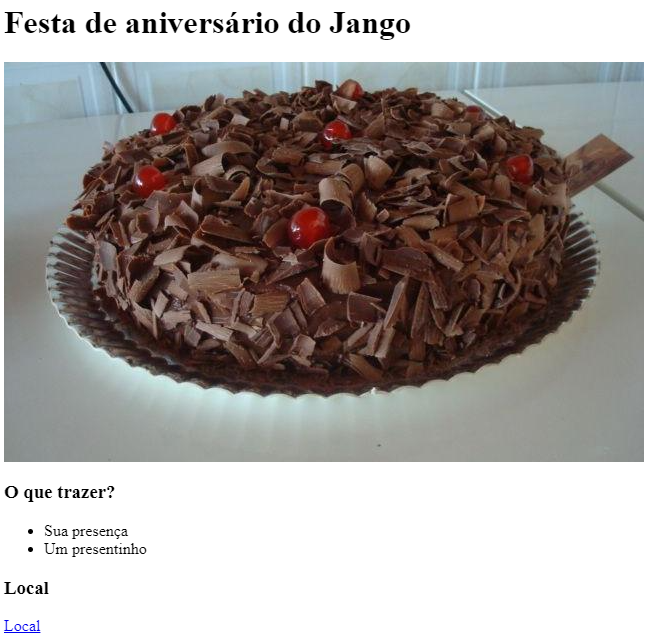
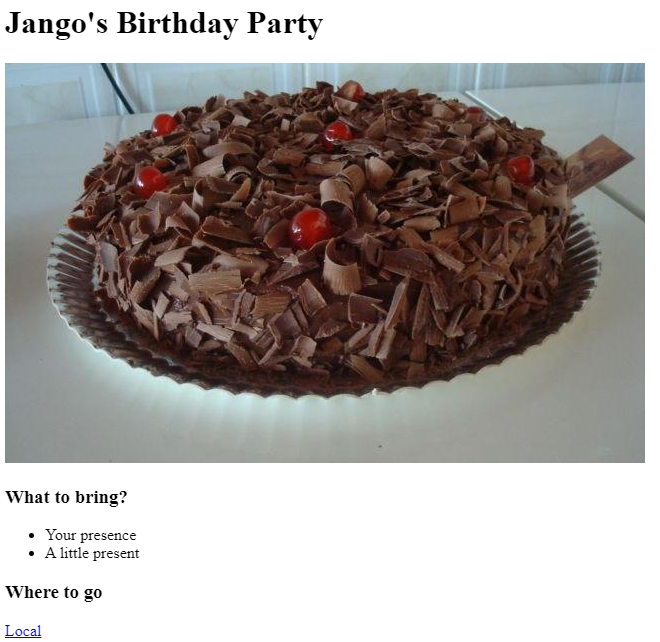
Add files via upload

diff --git a/public/resume.html b/public/resume.html
@@ -1,0 +1,51 @@
+<!DOCTYPE html>
+<html lang="en">
+<head>
+    <meta charset="UTF-8">
+    <meta name="viewport" content="width=device-width, initial-scale=1.0">
+    <title>My Resume</title>
+</head>
+<body>
+    <h1>Summary</h1> <img src="../assets/images/profile.jpg" height="200" />
+
+    <h2>Objective</h2>
+    Detail-oriented professional with a background in hospitality and gastronomy, seeking a remote data entry position. Possesses strong organizational skills, attention to detail, and proficiency in data management.
+    <hr>
+    <h2>Education</h2>
+    <h3>Federal Institute of Santa Catarina</h3>
+    <p>March 2019 - July 2023</p>
+    <p>Complete superior course in gastronomy containing practical disciplines such as Kitchen Skills I, II, and III, Bar and Cocktail Making, Enogastronomy, Bakery and Confectionery I and II, in addition to theoretical disciplines such as Cost Management, Marketing Management, Entrepreneurship and Financial Management.</p>
+    <h3>The Complete 2024 Web Development Bootcamp</h3>
+    <p>June 2024 - Present</p>
+    <p>Currently learning web development through The Complete 2024 Web Development Bootcamp on Udemy, which covers HTML, CSS, and JavaScript for front-end development, as well as Bootstrap for responsive design. The curriculum includes Node.js for server-side development, MongoDB for database management, and EJS for templating. It also covers version control with Git and GitHub, API creation and consumption, and React.js for single-page applications. Deployment skills using platforms like Heroku, Netlify, or Vercel, along with best practices for debugging, performance optimization, and security, are also taught. The course features hands-on projects and a capstone project to demonstrate acquired skills.</p>
+    <hr>
+    <h2>Work Experience</h2>
+    <h3>Ateliê 93 - Souschef</h3>
+    <p>August 2016 - Present</p>
+    <ul>
+        <li>Developed and maintained detailed recipe datasheets, ensuring accuracy and consistency.</li>
+        <li>Applied strong organizational skills to ensure efficient event coordination and food preparation.</li>
+    </ul>
+    <h3>LK Design Hotel - Bartender</h3>
+    <ul>
+        <li>Handled stock receiving and performed inventory requisitions, maintaining accurate records.</li>
+        <li>Utilized organizational skills to manage multiple tasks efficiently under pressure.</li>
+    </ul>
+    <hr>
+    <h2>Skills</h2>
+    <ul>
+        <li>Proficient in Microsoft Office Suite (Word, Excel, Outlook)</li>
+        <li>Typing speed of 80 Words per minute</li>
+        <li>Data entry accuracy and attention to detail</li>
+        <li>Strong organizational and time management skills</li>
+        <li>Proactive and disciplined approach to tasks</li>
+        <li>Excellent customer service and interpersonal skills</li>
+        <li>Ability to work independently and manage tasks without distraction</li>
+    </ul>
+    <hr>
+    <h2>Contact Information</h2>
+    <p>Email: <a href="jooaovgoulart@gmail.com">jooaovgoulart@gmail.com</a></p>
+    <p>Phone Number: <a href="+5548996648067">+55 48 996648067</a></p>
+    </body><footer>© 2024 João Victor Goulart</footer>
+</body>
+</html>

diff --git a/index.html b/index.html
@@ -1,19 +1,21 @@
 <!DOCTYPE html>
-<html lang="en"> 
+<html lang="en">
 <head>
-    <meta charset="UTF-8">
-    <meta name="viewport" content="width=device-width, initial-scale=1.0">
-    <title>Portfólio do João</title>
+ <meta charset="UTF-8">
+ <meta name="viewport" content="width=device-width, initial-scale=1.0">
+ <title>João's Portfolio</title>
 </head>
 <body>
-    <h1>Portfólio do João</h1>
-    <h2>Projetos para início da carreira de Web Developer</h2>
-    <hr/>
-    <h2><a href="./public/rankdefilmes.html"> Meus Filmes Favoritos </a></h2>
-    <img src="./assets/images/rankdefilmes.png" height="300" alt="Preview da página de rank de filmes" />
-    <h2><a href="./public/festadeaniversario.html">Festa de aniversário do João</a></h2>
-    <img src="./assets/images/festadojoão.png" height="300" alt="Preview da página da festa de aniversário" />
-    <hr/>
-    <h3><a href="./public/contato.html"> Contato</a>    <a href="./public/sobremim.html" >Sobre mim</a></h3>
+ <h1>João’s Portfolio</h1>
+ <h2>Projects to start your career as a Web Developer</h2>
+ <hr/>
+ <h2><a href="./public/resume.html">My Resume</a></h2>
+ <img src="./assets/images/resume.png" height="200" />
+ <h2><a href="./public/rankdefilmes.html"> My Favorite Films </a></h2>
+ <img src="./assets/images/rankdefilmes.png" height="200" alt="Preview of the movie rank page" />
+ <h2><a href="./public/festadeaniversario.html">João's birthday party</a></h2>
+ <img src="./assets/images/festadojoão.png" height="200" alt="Preview of the birthday party page" />
+ <hr/>
+ <h3><a href="./public/contato.html"> Contact</a> <a href="./public/sobremim.html" >About me</a></h3>
 </body>
 </html>

diff --git a/public/rankdefilmes.html b/public/rankdefilmes.html
@@ -1,19 +1,19 @@
 <!DOCTYPE html>
-<html lang="en"> <title>Portfólio do João - Rank de filmes </title>
+<html lang="en"> <title>João's Portfolio - Film Rank </title>
 <head>
-    <meta charset="UTF-8">
-    <meta name="viewport" content="width=device-width, initial-scale=1.0">
-    <title>Portfólio do João - Rank de filmes</title>
+ <meta charset="UTF-8">
+ <meta name="viewport" content="width=device-width, initial-scale=1.0">
+ <title>Favorite movies</title>
 </head>
 <body>
-    <h1>Filmes favoritos do Jango</h1>
-<h2>Top 3 filmes de todos os tempos</h2>
+ <h1>João's favorite movies</h1>
+<h2>Top 3 films of all time</h2>
 <hr>
 <h3>Coherence (2013)</h3>
-<p>É um dos meus favoritos por ser um filme sobre temas de Sci-fi que crescem gradualmente sem forçar a barra e é muito bem atuado.</p>
+<p>It's one of my favorites because it's a film about Sci-fi themes that grow gradually without forcing things and it's very well acted.</p>
 <h3>Matrix (1999)</h3>
-<p>Simplesmente um clássico da ficção científica.</p>
-<h3>Tudo em todo lugar tudo ao mesmo tempo (2022)</h3>
-<p>Simplesmente perfeito</p><!-- Write your code below -->
+<p>Simply a science fiction classic.</p>
+<h3>Everything everywhere all at the same time (2022)</h3>
+<p>Simply perfect</p>
 </body>
 </html>

diff --git a/public/sobremim.html b/public/sobremim.html
@@ -3,13 +3,13 @@
 <head>
     <meta charset="UTF-8">
     <meta name="viewport" content="width=device-width, initial-scale=1.0">
-    <title>Portfólio do João - Sobre mim</title>
+    <title>About me</title>
 </head>
 <body>
     <h1>Sobre mim</h1>
 
-<p>Olá, me chamo João Victor e tenho 25 anos, sempre me interessei pela área de programação mas nunca tinha entrado de vez até fazer um curso de python na Udemy em 2023.
-Desde então continuo a fazer alguns cursos da plataforma, como o de HTML que estou usando para fazer esse site. </p>
-Sou formado em gastronomia pelo Instituto Federal de Santa Catarina - Campus Contineite (IFSC) e no momento trabalho na área como cozinheiro e bartender.
+<p>Hello, my name is João Victor and I'm 25 years old, I've always been interested in programming, but I never really got involved until I took a Python course on Udemy in 2023.
+    Since then I have continued to take some courses on the platform, such as the HTML course I am using to create this website. </p>
+    I have a degree in gastronomy from the Federal Institute of Santa Catarina - Campus Contineite (IFSC) and I currently work in the area as a cook and bartender.
 </body>
 </html>

diff --git a/public/festadeaniversario.html b/public/festadeaniversario.html
@@ -3,17 +3,17 @@
 <head>
     <meta charset="UTF-8">
     <meta name="viewport" content="width=device-width, initial-scale=1.0">
-    <title>Portfólio do João - Convite de aniversário</title>
+    <title>Birthday Invite</title>
 </head>
 <body>
-    <h1>Festa de aniversário do Jango</h1>
+    <h1>Jango's Birthday Party</h1>
 <img src="https://static.itdg.com.br/images/640-400/41089388df92cffe7087f79be4d1390a/140922-original.jpg" alt="Bolo de aniversário sabor chocolate"/>
-<h3>O que trazer?</h3>
+<h3>What to bring?</h3>
 <ul>
-    <li>Sua presença</li>
-    <li>Um presentinho</li>
+    <li>Your presence</li>
+    <li>A little present</li>
 </ul>
-<h3>Local</h3>
+<h3>Where to go</h3>
 <a href="https://www.google.com/maps/place/Pop+Pizza/@-27.5889542,-48.5253932,17z/data=!3m1!4b1!4m6!3m5!1s0x9527385bf59788a3:0x934ca8f5711ed62a!8m2!3d-27.588959!4d-48.5228129!16s%2Fg%2F11g_j04qz?entry=ttu">Local</a>
 </body>
 </html>

diff --git a/public/contato.html b/public/contato.html
@@ -3,13 +3,12 @@
 <head>
     <meta charset="UTF-8">
     <meta name="viewport" content="width=device-width, initial-scale=1.0">
-    <title>Portfólio do João - Contato</title>
+    <title>Contact</title>
 </head>
 <body>
-    <h1>Contato</h1>
-    <p>Whatsapp: 48 996648067</p>
-
-    Discord: limao.taiti
+    <h1>Contact</h1>
+    <p>Whatsapp: +55 48 996648067</p>
+    Email: <a href="jooaovgoulart@gmail.com">jooaovgoulart@gmail.com</a>
 
 </body>
 </html>
